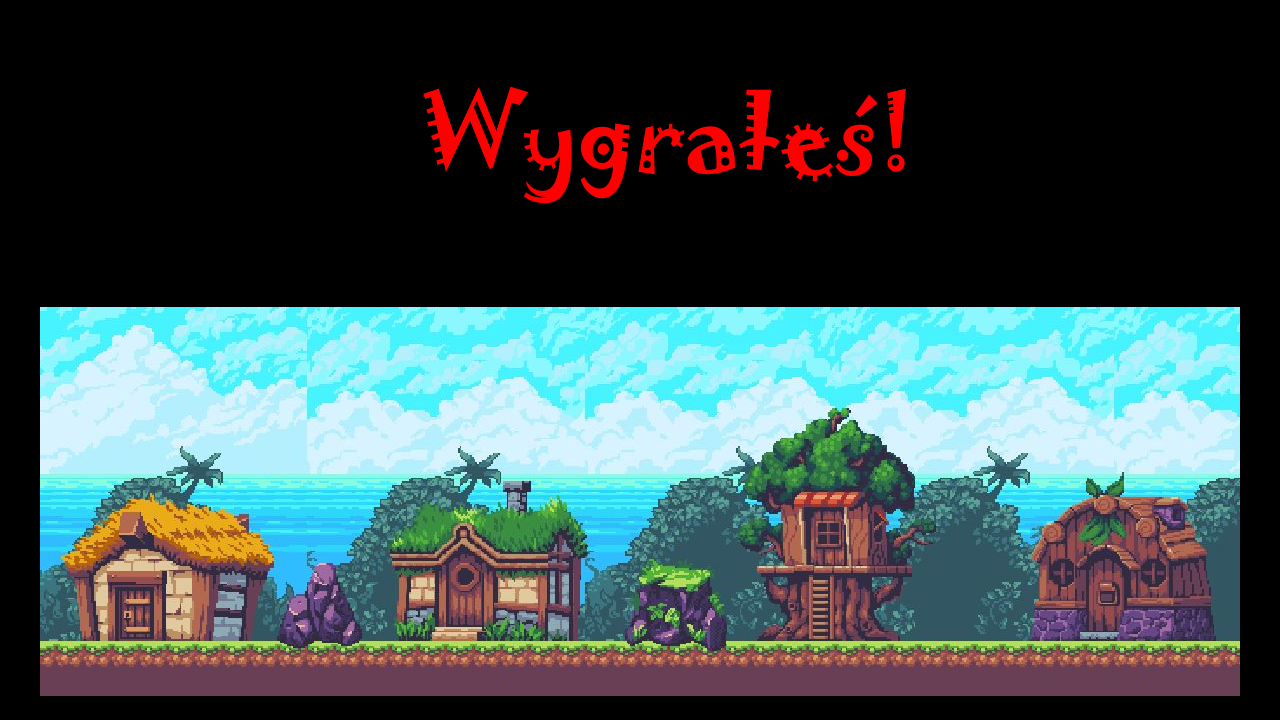
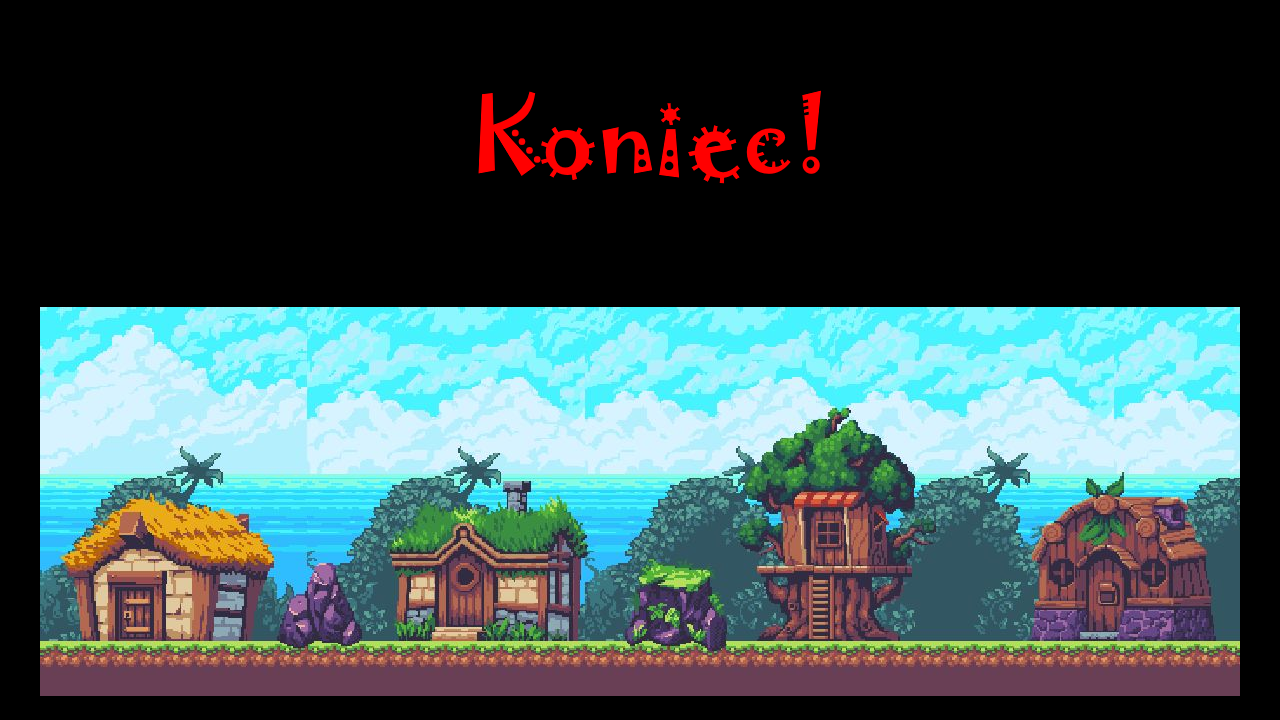
Various bug fixes.

Changed region(s): [[0.3125, 0.1222, 0.7188, 0.3056]]

diff --git a/Animation.cpp b/Animation.cpp
@@ -13,6 +13,10 @@
 
 std::tuple< raylib::Vector2, raylib::Texture2D&, raylib::Sound* > Animation::spriteForTime(float animationTime) {
     ZASSERT(animationLength > 0.0f);
+
+    if (!loop && (animationTime >= animationLength))
+        return std::tuple< raylib::Vector2, raylib::Texture2D&, raylib::Sound* > { origins.back(), images.back(), nullptr };
+
     while (animationTime >= animationLength)
         animationTime -= animationLength;
     float time = 0.0f;
@@ -63,6 +67,7 @@ void Animation::load(const std::string& animFile) {
 
 void Animation::fromPicture(const std::string& imageFile, float length) {
     images.emplace_back(imageFile);
+    sounds.emplace_back();
     origins.emplace_back(0.0f, 0.0f);
     delays.push_back(length);
     animationLength = length;

diff --git a/Scene.cpp b/Scene.cpp
@@ -48,6 +48,10 @@ void Scene::load(const std::string& sceneFile) {
         } else {
             delays.push_back(0.0f);
         }
+        auto loop = true;
+        if (animation.contains("loop")) {
+            loop = animation["loop"].get<bool>();
+        }
         if (animation.contains("image")) {
             auto imagePath = animation["image"].get<std::string>();
             animations.emplace_back();
@@ -57,6 +61,7 @@ void Scene::load(const std::string& sceneFile) {
             auto animationPath = animation["animation"].get<std::string>();
             animations.emplace_back();
             animations.back().load((basePath / animationPath).string());
+            animations.back().loop = loop;
         }
     }
 }

diff --git a/Game.cpp b/Game.cpp
@@ -154,6 +154,8 @@ void Game::mainLoop()
 
         menu.update();
 
+        bool hackDisableMenuUpdate = false;
+
         if (gameState == GameState::LEVEL) {
             if (!menu.isInMenu())
             {
@@ -218,11 +220,13 @@ void Game::mainLoop()
             if (gameEndScreen.areAnimationsFinished()) {
                 if (gamepad.IsButtonPressed(GAMEPAD_BUTTON_RIGHT_FACE_DOWN)) { // A
                     restartGame();
+                    hackDisableMenuUpdate = true;
                 }
             }
         }
 
-        menu.draw();
+        if (!hackDisableMenuUpdate)
+            menu.draw();
 
         if (debug) {
             // Debug Camera Window

diff --git a/Animation.h b/Animation.h
@@ -14,6 +14,8 @@ private:
     std::vector<raylib::Vector2> origins;
     std::vector<float> delays;      ///< How long to display given frame (in seconds).
     float animationLength = 0.0f;   ///< How long is the animation (in seconds).
+
+public:
     bool loop = true;               ///< True to loop.
 
 public:
